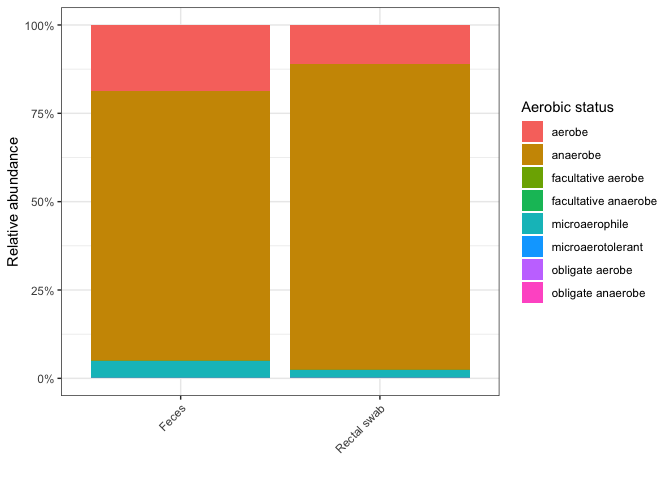
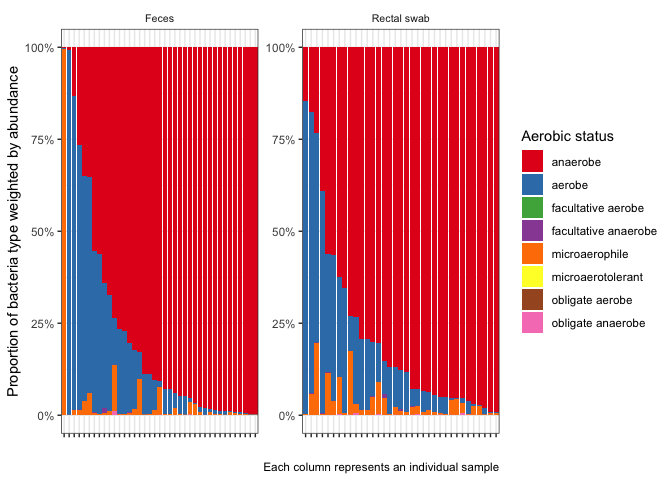
better graph

diff --git a/README.md b/README.md
@@ -90,9 +90,6 @@ few questions:
 
 ### Do the rectal swabs contain more oxygen tolerant organisms?
 
-While this may seem like an obvious “yes”, it still stands as a
-proof-of-concept.
-
 ``` r
 library(tidyverse)
 #> ── Attaching packages ─────────────────────────────────────── tidyverse 1.3.1 ──
@@ -105,37 +102,48 @@ library(tidyverse)
 #> x dplyr::lag()    masks stats::lag()
 
 my_df <- Shen2021 %>%
-  left_join(bacdive_phenotypes, by = "taxon")
+  left_join(bacdive_phenotypes, by = "taxon") %>%
+  mutate(prop = count / read_counts) %>%
+  group_by(SampleID, aerobic_status) %>%
+  filter(count > 0, !is.na(aerobic_status)) %>%
+  summarise(n = n(), weighted_n = sum(prop) * n(), .groups = "drop") %>%
+  ungroup()
+
+sort_order <- my_df %>%
+  group_by(SampleID) %>%
+  mutate(prop = weighted_n / sum(weighted_n)) %>%
+  filter(aerobic_status %in% "anaerobe") %>%
+  arrange(prop) %>%
+  pull(SampleID)
 
 my_df %>%
-  group_by(SampleType, aerobic_status) %>%
-  filter(count > 0, !is.na(aerobic_status)) %>%
-  summarise(n = n(), weighted_n = sum(count) * n(), .groups = "drop") %>%
-  ungroup() %>%
-  ggplot(aes(x = SampleType, y = weighted_n, fill = aerobic_status)) +
-    geom_bar(stat = "identity", position = "fill") +
+  left_join(Shen2021 %>% select(SampleID, SampleType) %>% unique(), by = "SampleID") %>%
+  mutate(SampleID = fct_relevel(SampleID, sort_order)) %>%
+  mutate(aerobic_status = fct_relevel(aerobic_status, "anaerobe", "aerobe")) %>%
+  
+  ggplot(aes(x = SampleID, y = weighted_n, fill = aerobic_status)) +
+  geom_bar(stat = "identity", position = "fill") +
   theme_bw() +
   theme(strip.text.x = element_text(size = 8),
         strip.background = element_blank(),
-        axis.text.x = element_text(angle=45, hjust = 1)) +
+        axis.text.x = element_blank()) +
+  facet_wrap(~SampleType, scales = "free") +
   scale_y_continuous(labels = scales::percent) +
-  labs(y = "Relative abundance", x = "", fill = "Aerobic status")
+  scale_fill_brewer(palette = "Set1") +
+  labs(y = "Proportion of bacteria type weighted by abundance", x = "", fill = "Aerobic status", caption = "Each column represents an individual sample")
 ```
 
 <img src="man/figures/README-unnamed-chunk-5-1.png" width="100%" />
 
-``` r
-# Seems like there should still be more aerobic bacteria in the rectal swabs
-```
-
 What are contributing most to these counts?
 
-### Top taxa in feces
+#### Top taxa in feces
 
 ``` r
 library(pander)
 
-top_taxa_feces <- my_df %>%
+top_taxa_feces <- Shen2021 %>%
+  left_join(bacdive_phenotypes, by = "taxon") %>%
   filter(SampleType %in% "Feces") %>%
   group_by(SampleType, aerobic_status, taxon) %>%
   summarise(total_count = sum(count), .groups = "drop") %>%
@@ -158,10 +166,11 @@ top_taxa_feces %>% pander(split.table = Inf, split.cells = 20, digits = 2)
 |   Feces    |     aerobe      |    Klebsiella pneumoniae     |   2474785    |    2 %     |
 |   Feces    |    anaerobe     |    Bacteroides caecimuris    |   2260004    |    2 %     |
 
-### Top taxa in rectal swab
+#### Top taxa in rectal swab
 
 ``` r
-top_taxa_rectal <- my_df %>%
+top_taxa_rectal <- Shen2021 %>%
+  left_join(bacdive_phenotypes, by = "taxon") %>%
   filter(SampleType %in% "Rectal swab") %>%
   group_by(SampleType, aerobic_status, taxon) %>%
   summarise(total_count = sum(count), .groups = "drop") %>%
@@ -184,14 +193,10 @@ top_taxa_rectal %>% pander(split.table = Inf, split.cells = 20, digits = 2)
 | Rectal swab |    anaerobe     | Faecalibacterium prausnitzii  |   1591240    |    4 %     |
 | Rectal swab |    anaerobe     | Porphyromonas asaccharolytica |   1223907    |    3 %     |
 
-### Is the aerobe / anaerobe ratio significantly different?
+#### Is the aerobe / anaerobe ratio significantly different?
 
 ``` r
 totals_df <- my_df %>%
-  group_by(SampleID, aerobic_status) %>%
-  filter(count > 0, !is.na(aerobic_status)) %>%
-  summarise(n = n(), weighted_n = sum(count) * n(), .groups = "drop") %>%
-  ungroup() %>%
   pivot_wider(-n, names_from = "aerobic_status", values_from = "weighted_n") %>%
   mutate(log_aerobe_ratio = log(aerobe / anaerobe)) %>%
   left_join(Shen2021 %>% select(SampleID, SampleType) %>% unique(), by = "SampleID")
@@ -219,7 +224,7 @@ summary(my_lm)
 #> F-statistic: 0.1598 on 1 and 72 DF,  p-value: 0.6905
 ```
 
-#### Graph
+##### Graph
 
 ``` r
 totals_df %>%
@@ -228,6 +233,11 @@ totals_df %>%
 ```
 
 <img src="man/figures/README-unnamed-chunk-9-1.png" width="100%" />
+
+Looks like there are slightly more aerobes compared to anaerobes in the
+rectal swabs but not enough to be statistically significant.
+
+### Differences in gram-staining
 
 ## References
 
